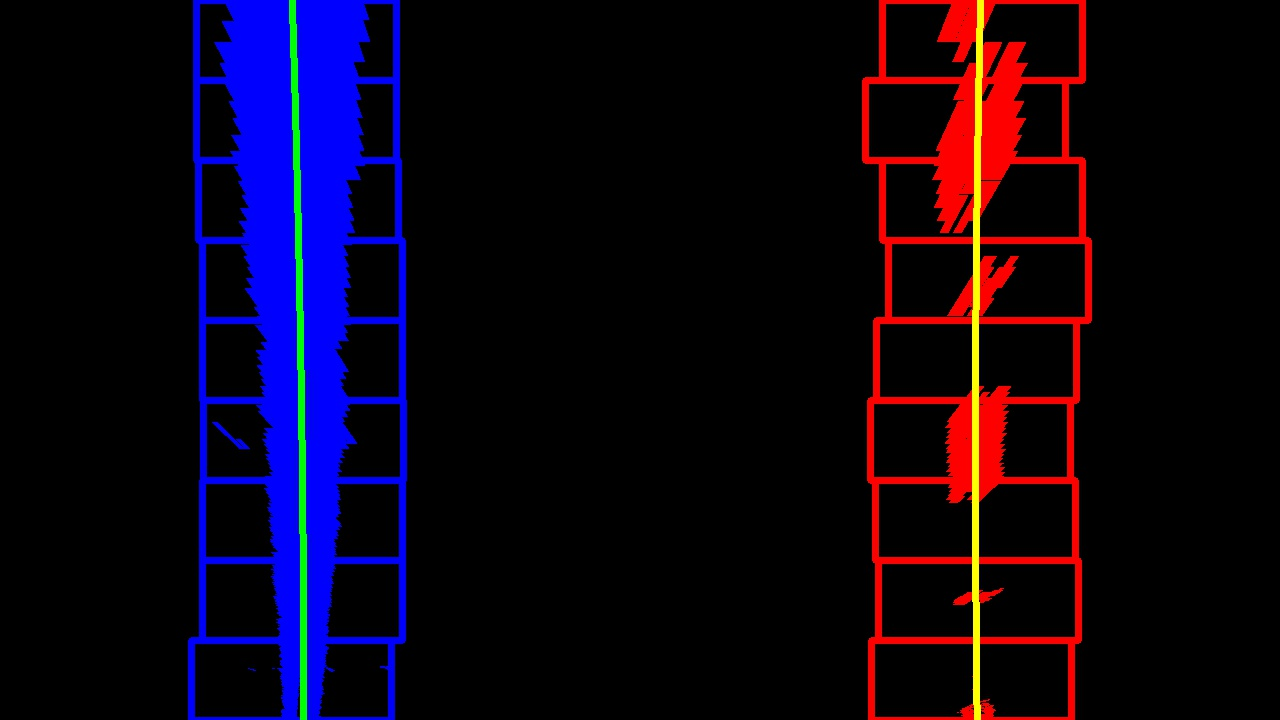
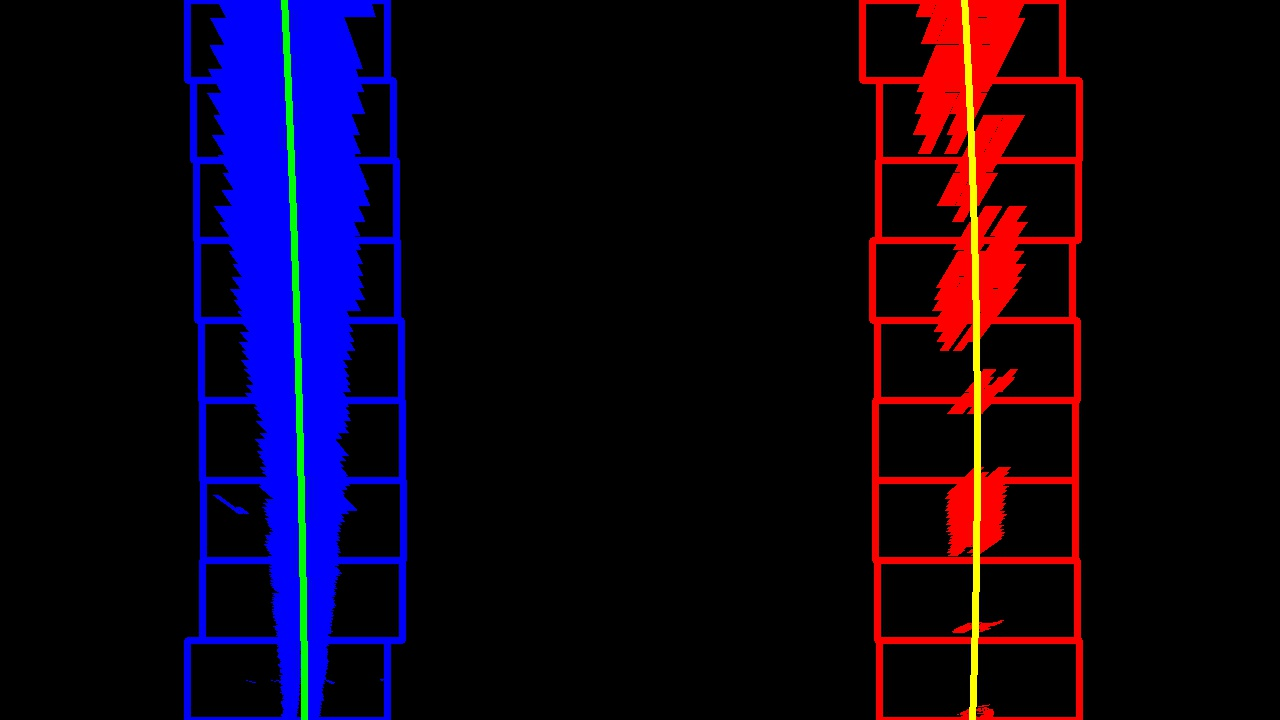
Expand perspective to use more vertical data

diff --git a/lanelines/camera.py b/lanelines/camera.py
@@ -28,7 +28,7 @@ class Camera:
     def undistort(self, image):
         return cv2.undistort(image, self.camera_matrix, self.dist_coeffs, None, self.camera_matrix)
 
-    def detect_perspective(self, image, source_points, dest_points=None, offset_x=300, offset_y=100):
+    def detect_perspective(self, image, source_points, dest_points=None, offset_x=300, offset_y=250):
         if dest_points is None:
             dest_points = np.float32([(offset_x, offset_y), (image.shape[1] - offset_x, offset_y),
                                       (image.shape[1] - offset_x, image.shape[0]), (offset_x, image.shape[0])])
